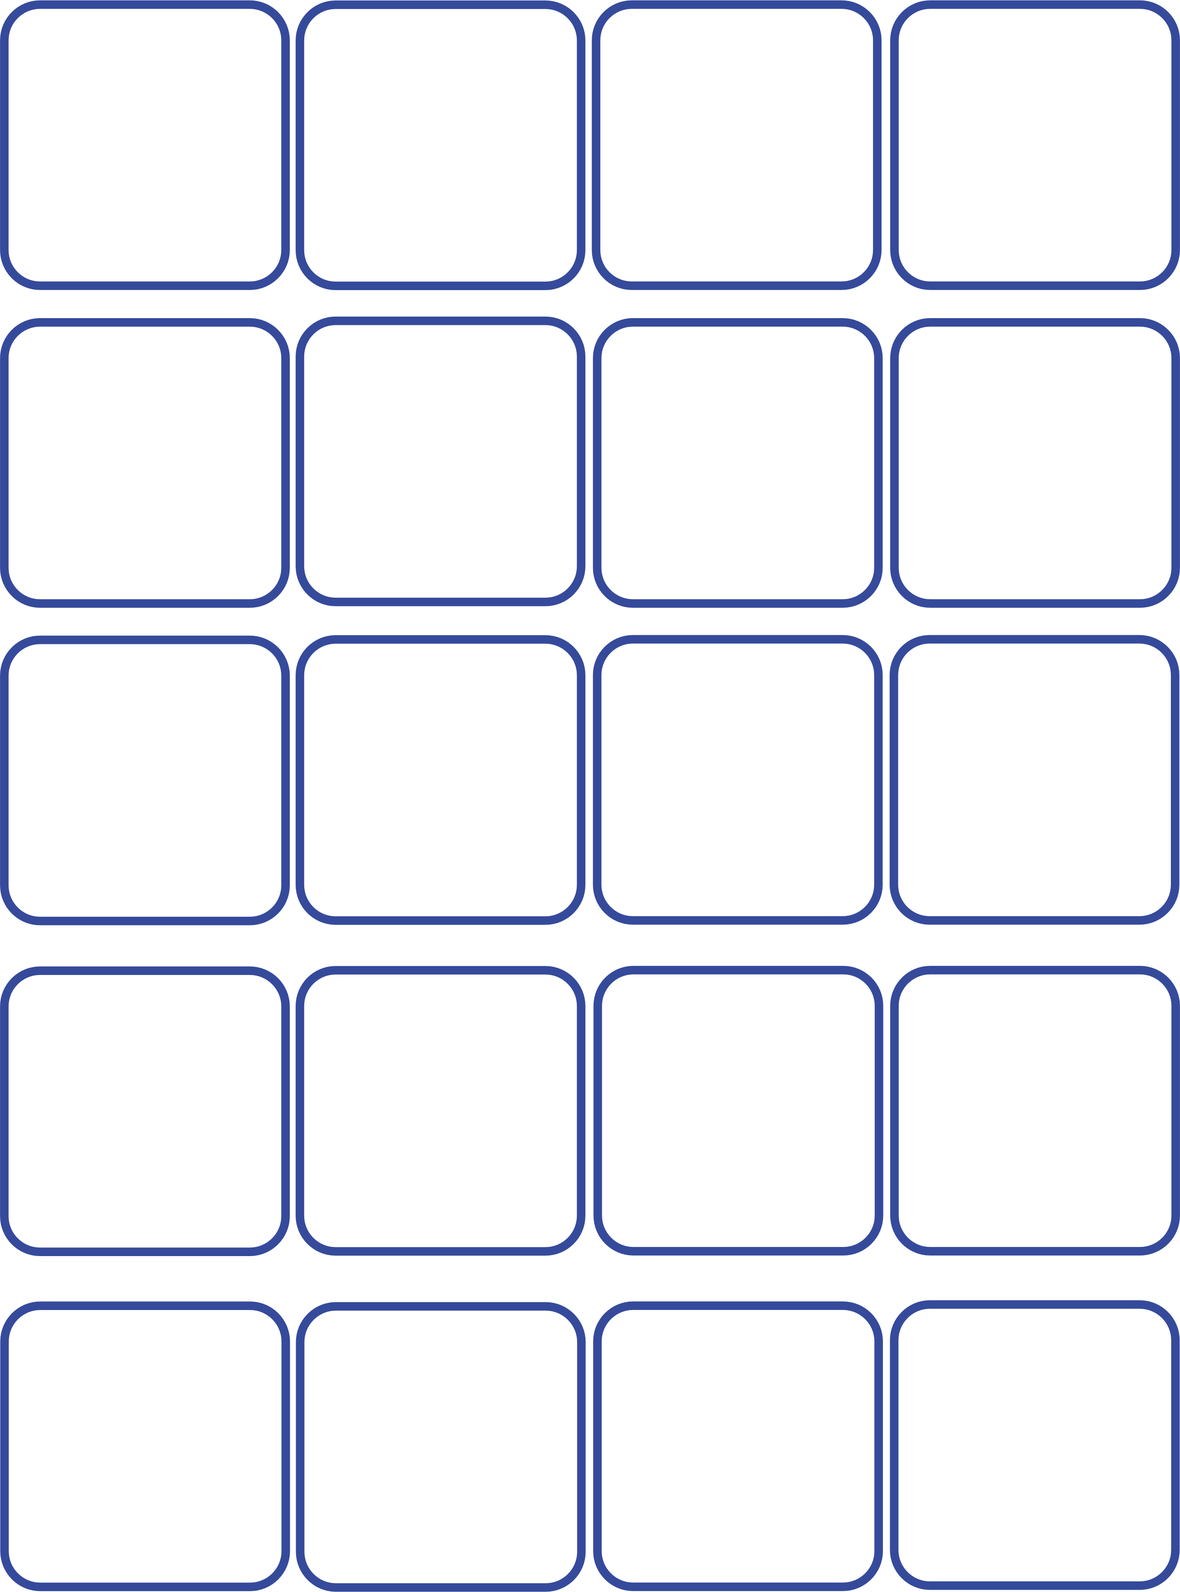
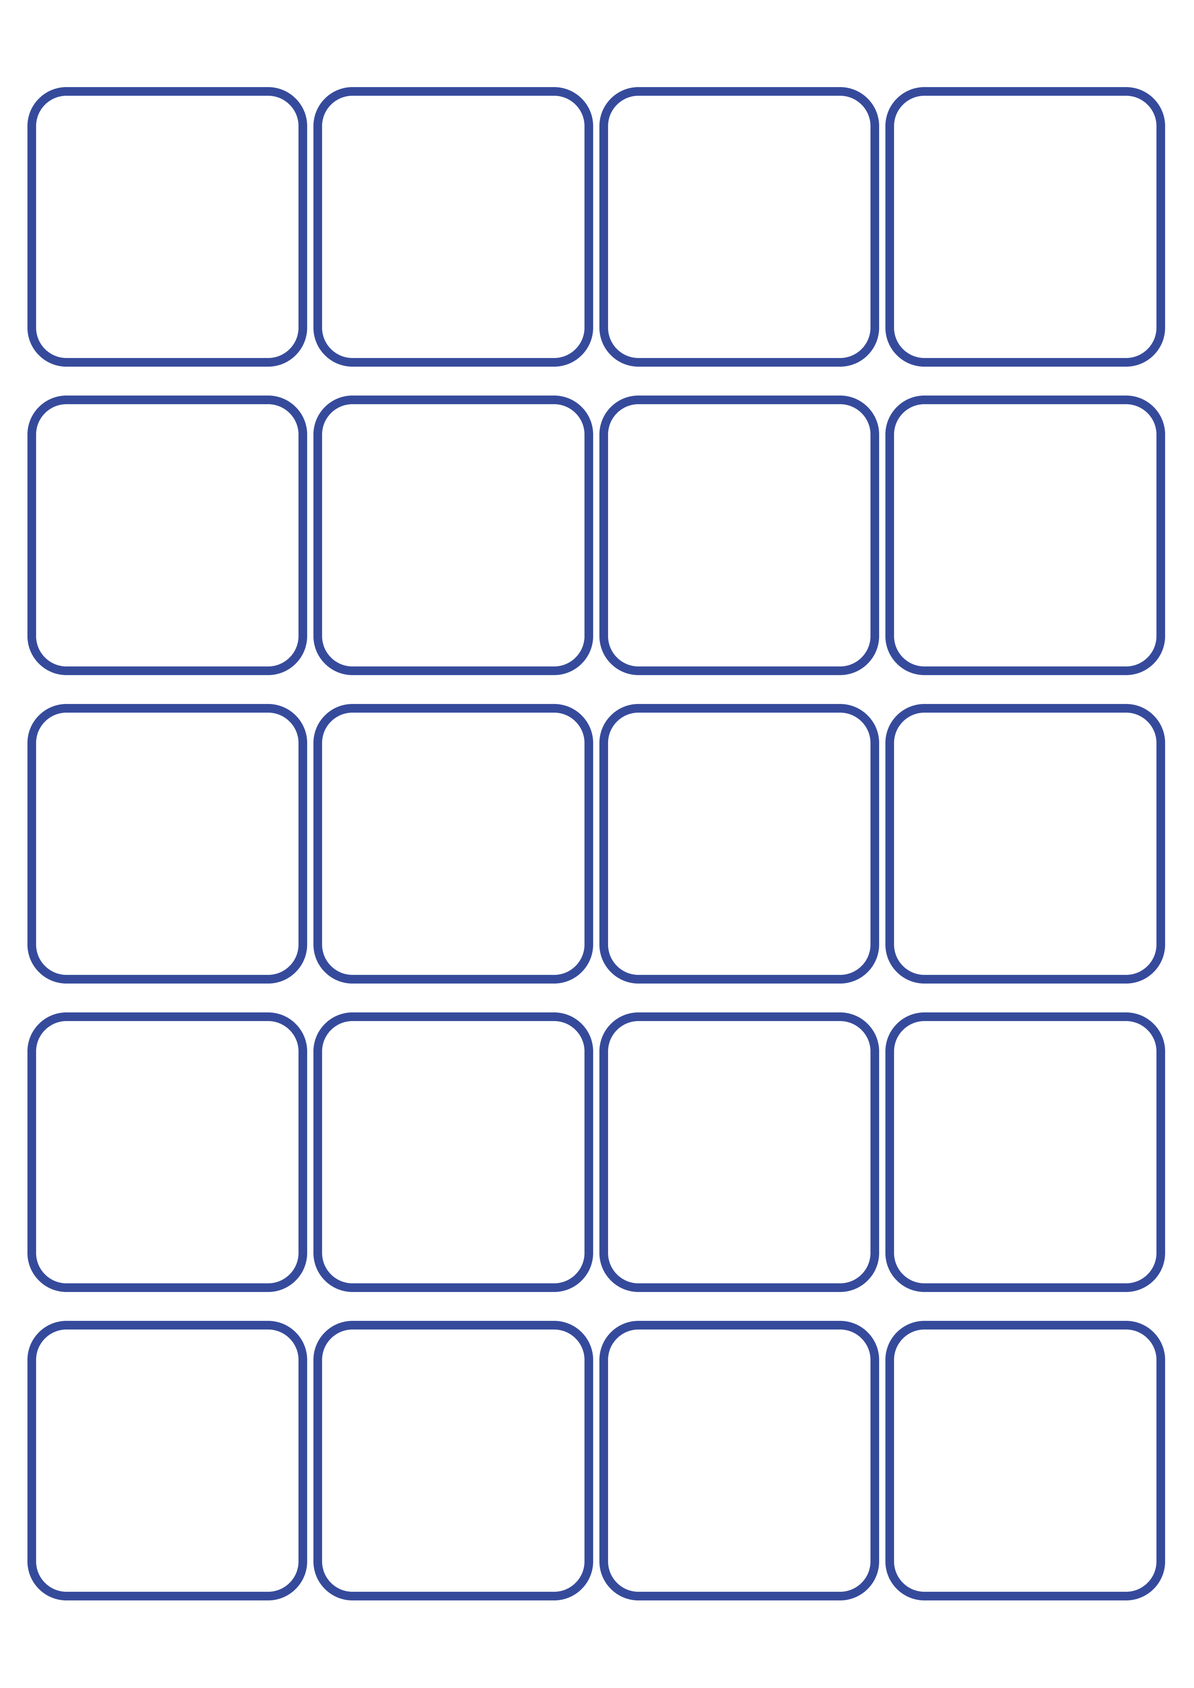
Печать: 7×7 — 8 шт. на A4 (ровно 7 см), 5×5 — поля 4,8 мм, лимит 60 снят, скрыты поля выбора файла

Changed region(s): [[0.0, 0.0, 1.0, 1.0]]

diff --git a/assets/i18n.js b/assets/i18n.js
@@ -34,7 +34,7 @@ window.AYMABA_I18N = {
     "size.a6": "A6",
     "size.a4": "A4",
     "size.per9": "6 на листе",
-    "size.per7": "9 на листе",
+    "size.per7": "8 на листе",
     "size.per5": "20 на листе",
     "size.pera5": "2 на A4",
     "size.pera6": "4 на A4",
@@ -94,7 +94,7 @@ window.AYMABA_I18N = {
     "set.upload": "Свои картинки",
     "set.open": "Открыть листы",
     "set.sheets": "листов: {n}",
-    "set.count": "{n} из 60",
+    "set.count": "{n} шт.",
     "out.print": "Печать",
     "out.pdf": "Скачать PDF",
     "out.docx": "Скачать Word",
@@ -114,9 +114,9 @@ window.AYMABA_I18N = {
     "cp.h1": "Конструктор карточек в PDF",
     "cp.sub": "Картинки из библиотеки или свои фото — в рамки 9, 7 или 5 см и готовый PDF. Всё считается в вашем браузере, картинки никуда не отправляются.",
     "cp.tab9": "9 на 9", "cp.tab7": "7 на 7", "cp.tab5": "5 на 5",
-    "cp.info9": "До 60 картинок, на листе 6, карточка 9 см",
-    "cp.info7": "До 60 картинок, на листе A4 — 9, карточка 7 см",
-    "cp.info5": "До 60 картинок, на листе 20, карточка 5 см",
+    "cp.info9": "На листе A4 — 6, карточка 9 см",
+    "cp.info7": "На листе A4 — 8, карточка 7 см",
+    "cp.info5": "На листе A4 — 20, карточка 5 см",
     "cp.capoff": "Без подписи", "cp.capkk": "Қазақша", "cp.capru": "Русский",
     "cp.caphint.off": "Фото на всю рамку.",
     "cp.caphint.kk": "Подпись на казахском под каждой картинкой. Впишите слово в рамке — проверенных казахских подписей у карточек пока нет.",
@@ -132,7 +132,7 @@ window.AYMABA_I18N = {
     "cp.search": "Поиск по слову",
     "cp.searchph": "например: яблоко",
     "cp.addcat": "Добавить всё показанное",
-    "cp.count": "{n} из 60",
+    "cp.count": "{n} шт.",
     "cp.full": "Уже 60 картинок — это максимум.",
     "cp.clear": "Очистить всё",
     "cp.download": "Скачать PDF",
@@ -263,7 +263,7 @@ window.AYMABA_I18N = {
     "size.a6": "A6",
     "size.a4": "A4",
     "size.per9": "парақта 6",
-    "size.per7": "парақта 9",
+    "size.per7": "парақта 8",
     "size.per5": "парақта 20",
     "size.pera5": "A4-те 2",
     "size.pera6": "A4-те 4",
@@ -323,7 +323,7 @@ window.AYMABA_I18N = {
     "set.upload": "Өз суреттерім",
     "set.open": "Парақтарды ашу",
     "set.sheets": "парақ саны: {n}",
-    "set.count": "60 ішінен {n}",
+    "set.count": "{n} дана",
     "out.print": "Басып шығару",
     "out.pdf": "PDF жүктеу",
     "out.docx": "Word жүктеу",
@@ -343,9 +343,9 @@ window.AYMABA_I18N = {
     "cp.h1": "PDF карточка конструкторы",
     "cp.sub": "Кітапханадағы суреттер немесе өз фотоларыңыз — 9, 7 немесе 5 см жақтауларға және дайын PDF. Барлығы браузеріңізде есептеледі, суреттер ешқайда жіберілмейді.",
     "cp.tab9": "9-ға 9", "cp.tab7": "7-ге 7", "cp.tab5": "5-ке 5",
-    "cp.info9": "60 суретке дейін, парақта 6, карточка 9 см",
-    "cp.info7": "60 суретке дейін, A4 парағында 9, карточка 7 см",
-    "cp.info5": "60 суретке дейін, парақта 20, карточка 5 см",
+    "cp.info9": "A4 парағында 6, карточка 9 см",
+    "cp.info7": "A4 парағында 8, карточка 7 см",
+    "cp.info5": "A4 парағында 20, карточка 5 см",
     "cp.capoff": "Жазусыз", "cp.capkk": "Қазақша", "cp.capru": "Русский",
     "cp.caphint.off": "Фото бүкіл жақтауға.",
     "cp.caphint.kk": "Әр суреттің астында қазақша жазу. Сөзді жақтаудың ішіне жазыңыз — карточкалардың тексерілген қазақша жазулары әзірге жоқ.",
@@ -361,7 +361,7 @@ window.AYMABA_I18N = {
     "cp.search": "Сөз бойынша іздеу",
     "cp.searchph": "мысалы: яблоко (орысша)",
     "cp.addcat": "Көрсетілгеннің бәрін қосу",
-    "cp.count": "60 ішінен {n}",
+    "cp.count": "{n} дана",
     "cp.full": "60 сурет болды — бұл ең көбі.",
     "cp.clear": "Бәрін тазалау",
     "cp.download": "PDF жүктеп алу",

diff --git a/assets/sheets.js b/assets/sheets.js
@@ -1,6 +1,6 @@
 /* AYMABA — листы для печати карточек: геометрия, отрисовка, PDF, Word, печать.
-   Геометрия 9 и 5 — из оригинального инструмента пользователя (vivamusz.grok.me), НЕ МЕНЯТЬ.
-   7 на 7 — временный шаблон (tools/make_template7.py), заменить оригиналом пользователя.
+   Геометрия 9 — из оригинального инструмента пользователя (vivamusz.grok.me), НЕ МЕНЯТЬ.
+   7 на 7 (8 шт., 2×4) и 5 на 5 (20 шт., поля 4,8 мм) — tools/make_grid_templates.py, решение пользователя 17.11.2026.
    Всё считается в браузере, на сервер ничего не отправляется. */
 (function () {
   var DPI = 300, PT = 72 / DPI;
@@ -8,11 +8,10 @@
   var SHEETS = {
     "9": { id: "9", cm: 9, px: { w: 2278, h: 3369 }, radius: 114, border: 24, template: "assets/pecs/template.png", prefix: "ПЕЧАТЬ 9 см",
       slots: sq([[24,24,1039,1039],[1215,24,1039,1039],[24,1158,1039,1039],[1215,1158,1039,1039],[24,2306,1039,1039],[1215,2306,1039,1039]]) },
-    "7": { id: "7", cm: 7, px: { w: 2480, h: 3508 }, radius: 83, border: 24, template: "assets/pecs/template-7.png", prefix: "ПЕЧАТЬ 7 см", temporary: true,
-      slots: sq([[24,538,760,760],[860,538,760,760],[1696,538,760,760],[24,1374,760,760],[860,1374,760,760],[1696,1374,760,760],[24,2210,760,760],[860,2210,760,760],[1696,2210,760,760]]) },
-    "5": { id: "5", cm: 5, px: { w: 2451, h: 3308 }, radius: 65, border: 18, template: "assets/pecs/template-5.png", prefix: "ПЕЧАТЬ 5 см",
-      slots: [[18,19,583,583],[632,19,1197,584],[1247,19,1812,583],[1867,19,2432,583],[18,679,583,1244],[632,676,1197,1240],[1250,679,1814,1244],[1867,679,2432,1244],[18,1339,583,1903],[632,1338,1197,1903],[1250,1338,1814,1902],[1866,1338,2431,1902],[18,2026,583,2591],[632,2025,1197,2590],[1251,2025,1815,2590],[1867,2025,2432,2590],[19,2723,583,3287],[633,2724,1197,3288],[1250,2722,1815,3287],[1867,2720,2431,3284]]
-        .map(function (r) { return { x: r[0], y: r[1], w: r[2] - r[0] + 1, h: r[3] - r[1] + 1 }; }) },
+    "7": { id: "7", cm: 7, px: { w: 2480, h: 3508 }, radius: 85, border: 24, template: "assets/pecs/template-7.png", prefix: "ПЕЧАТЬ 7 см",
+      slots: sq([[431,106,779,779],[1270,106,779,779],[431,945,779,779],[1270,945,779,779],[431,1784,779,779],[1270,1784,779,779],[431,2623,779,779],[1270,2623,779,779]]) },
+    "5": { id: "5", cm: 5, px: { w: 2480, h: 3508 }, radius: 63, border: 18, template: "assets/pecs/template-5.png", prefix: "ПЕЧАТЬ 5 см",
+      slots: sq([[75,199,545,545],[669,199,545,545],[1263,199,545,545],[1857,199,545,545],[75,840,545,545],[669,840,545,545],[1263,840,545,545],[1857,840,545,545],[75,1481,545,545],[669,1481,545,545],[1263,1481,545,545],[1857,1481,545,545],[75,2122,545,545],[669,2122,545,545],[1263,2122,545,545],[1857,2122,545,545],[75,2763,545,545],[669,2763,545,545],[1263,2763,545,545],[1857,2763,545,545]]) },
     /* «Сюжетные» — на обычном A4, резать по линиям; рамки прямоугольные, картинка вписывается целиком (fit: contain).
        Геометрия — tools/make_story_templates.py (отступ 5 мм от линии реза до рамки). */
     "a5": { id: "a5", story: true, fit: "contain", capf: 0.1, px: { w: 2480, h: 3508 }, radius: 114, border: 24, template: "assets/pecs/template-a5.png", prefix: "ПЕЧАТЬ A5",
@@ -23,9 +22,9 @@
       cuts: { xs: [], ys: [] }, slots: sq([[83,83,2314,3342]]) }
   };
   // число столбцов (для мини-листа в панели)
-  SHEETS["9"].cols = 2; SHEETS["7"].cols = 3; SHEETS["5"].cols = 4; SHEETS.a5.cols = 1; SHEETS.a6.cols = 2; SHEETS.a4.cols = 1;
+  SHEETS["9"].cols = 2; SHEETS["7"].cols = 2; SHEETS["5"].cols = 4; SHEETS.a5.cols = 1; SHEETS.a6.cols = 2; SHEETS.a4.cols = 1;
   Object.keys(SHEETS).forEach(function (k) { SHEETS[k].slots.forEach(function (sl) { sl.capf = SHEETS[k].capf || 0.2; }); });
-  var MAX = 60;
+  var MAX = 5000;            // лимита по сути нет (решение пользователя 17.11.2026)
   var CAP = 0.2;            // доля высоты рамки под подпись
   var FONT_URL = "assets/fonts/DejaVuSans-Bold.ttf";
   var KAPPA = 0.5522847498;

diff --git a/assets/library.css b/assets/library.css
@@ -175,3 +175,6 @@ dialog#rep::backdrop{background:rgba(26,22,18,.55)}
 .pr-outs .outs .btn{min-height:44px;padding:6px 4px;font-size:.76rem;flex-direction:column;gap:2px;line-height:1.1;text-align:center}
 .pr-outs .outs [data-out="print"]{grid-column:1/-1;flex-direction:row;font-size:1rem;min-height:46px;gap:8px}
 .pr-outs .hint100{font-size:.78rem}
+
+/* скрытые поля выбора файла (открываются кнопками «+») */
+.sr-only { position: absolute !important; width: 1px; height: 1px; padding: 0; margin: -1px; overflow: hidden; clip: rect(0 0 0 0); white-space: nowrap; border: 0; }

diff --git a/tools/make_grid_templates.py b/tools/make_grid_templates.py
@@ -1,0 +1,28 @@
+"""Шаблоны 7 на 7 и 5 на 5 на настоящем A4 (2480×3508 px, 300 dpi) в стиле 9 на 9
+(цвет рамки 53,74,155, скруглённые окна, рамка снаружи окна).
+7×7: 8 штук (2×4), карточка по внешнему краю рамки ровно 7 см.
+5×5: 20 штук (4×5), поля от края листа 4,8 мм (решение пользователя 17.11.2026).
+Запуск: python tools/make_grid_templates.py -> assets/pecs/template-7.png, template-5.png + геометрия."""
+from PIL import Image, ImageDraw
+import json, pathlib
+W, H = 2480, 3508
+COLOR = (53, 74, 155, 255)
+ROOT = pathlib.Path(__file__).resolve().parent.parent
+def make(name, cols, rows, S, B, R, gx, gy, x0=None):
+    outer = S + 2 * B
+    tw, th = cols * outer + (cols - 1) * gx, rows * outer + (rows - 1) * gy
+    x0 = (W - tw) // 2 if x0 is None else x0
+    y0 = (H - th) // 2
+    slots = [[x0 + c * (outer + gx) + B, y0 + r * (outer + gy) + B, S, S] for r in range(rows) for c in range(cols)]
+    K = 4
+    big = Image.new("L", (W * K, H * K), 0); d = ImageDraw.Draw(big)
+    for x, y, _, _ in slots:
+        d.rounded_rectangle([(x - B) * K, (y - B) * K, (x + S + B) * K - 1, (y + S + B) * K - 1], radius=(R + B) * K, fill=255)
+        d.rounded_rectangle([x * K, y * K, (x + S) * K - 1, (y + S) * K - 1], radius=R * K, fill=0)
+    img = Image.new("RGBA", (W, H), COLOR); img.putalpha(big.resize((W, H), Image.LANCZOS))
+    img.save(ROOT / f"assets/pecs/{name}.png", optimize=True)
+    print(name, json.dumps({"radius": R, "border": B, "margin_mm": round(x0 / 300 * 25.4, 2), "top_mm": round(y0 / 300 * 25.4, 2), "slots": slots}))
+# 7 см = 827 px по внешнему краю рамки -> окно 827-48 = 779
+make("template-7", 2, 4, 779, 24, round(114 * 779 / 1039), 12, 12)
+# 5 см: поле 4,8 мм = 57 px; ширина 2480-2*57 = 2366 = 4*(S+36)+3*13 -> S = 545
+make("template-5", 4, 5, 545, 18, round(65 * 545 / 565), 13, 60, x0=57)

diff --git a/README.md b/README.md
@@ -75,7 +75,7 @@ tools/shots.py        скриншоты для проверки (playwright + c
 справа — «Мой набор» (миниатюры, счётчик, кнопки вывода). На телефоне меню внизу экрана.
 
 - Нажатие на карточку добавляет её в набор, повторное — убирает. Можно добавить свои фото (JPG/PNG/WebP) с телефона или компьютера.
-- От 1 до 60 картинок. Пустые рамки остаются пустыми. Лимит 60 не повышать (`MAX` в sheets.js).
+- Сколько угодно картинок (лимит 60 снят 17.11.2026, `MAX` в sheets.js = 5000). Пустые рамки остаются пустыми.
 - В «Моём наборе»: нажать на рамку — заменить картинку (с устройства / из библиотеки / убрать);
   перетащить на другую рамку — поменять местами; двигать картинку внутри рамки пальцем или мышкой; − и + — размер.
 - Порядок: 1) размер, 2) отметить карточки (поиск — по всем темам сразу), 3) печать. Итог «N карточек · размер — M листов A4» виден всегда.
@@ -84,7 +84,7 @@ tools/shots.py        скриншоты для проверки (playwright + c
 - **Все листы — настоящий A4**, шаблон по центру в натуральную величину (1:1, 300 dpi) в PDF, печати и Word.
   Окно рамки 9 см в шаблоне пользователя — 88 мм (1039 px), так и печатается. Печатать на 100%, не «по размеру страницы».
 - Копии: «+1» у рамки и в мини-листе. Поворот ⟲. Линии реза — переключатель в настройках.
-- Готовые наборы (целая тема одной кнопкой) и «Добавить всю тему»; лимит 60 сохраняется.
+- Готовые наборы (целая тема одной кнопкой) и «Добавить всю тему».
 - **Мои наборы** (localStorage): новый, переименовать, копия, удалить, ссылка `library.html?set=…` (открывает тот же набор у коллеги;
   свои фото в ссылку не входят).
 - Картинки защищены от «Сохранить картинку» / долгого нажатия / вытаскивания (assets/app.js + style.css). Это простая защита:
@@ -100,12 +100,12 @@ tools/shots.py        скриншоты для проверки (playwright + c
 - Всё делается в браузере, на сервер ничего не отправляется. Выбранные карточки библиотеки, подписи и настройки
   запоминаются в браузере (localStorage); **свои фото не запоминаются** — после перезагрузки их нужно добавить снова.
 
-Не менять: геометрию рамок в `assets/sheets.js`, файлы `template.png` и `template-5.png`, шрифт `DejaVuSans-Bold.ttf`.
+Не менять: геометрию рамок 9 см в `assets/sheets.js`, файл `template.png`, шрифт `DejaVuSans-Bold.ttf`.
 
-**template-7.png — временный.** Оригинального шаблона 7 см нет, поэтому он нарисован скриптом `tools/make_template7.py`
-в точности в стиле `template.png` (тот же синий цвет, толщина 24 px, скругление). Важно: три рамки ровно по 7 см в ширину A4
-(21 см) не помещаются вместе с обводкой, поэтому окно рамки ≈ 6,4 см (760 px при 300 dpi), лист — A4, 9 рамок.
-Когда будет настоящий шаблон — положить его вместо `assets/pecs/template-7.png` и поправить координаты `SHEETS["7"]` в `assets/sheets.js`.
+**template-7.png и template-5.png** (17.11.2026, по решению пользователя) рисует `tools/make_grid_templates.py`
+в стиле `template.png` (синий 53,74,155, скругление), оба на настоящем A4:
+7 на 7 — 8 карточек (2×4), по внешнему краю рамки ровно 7 см, поля сверху/снизу ≈ 6,9 мм;
+5 на 5 — 20 карточек (4×5), поля слева/справа 4,8 мм, окно ≈ 4,6 см.
 
 ## Юридические документы
 
